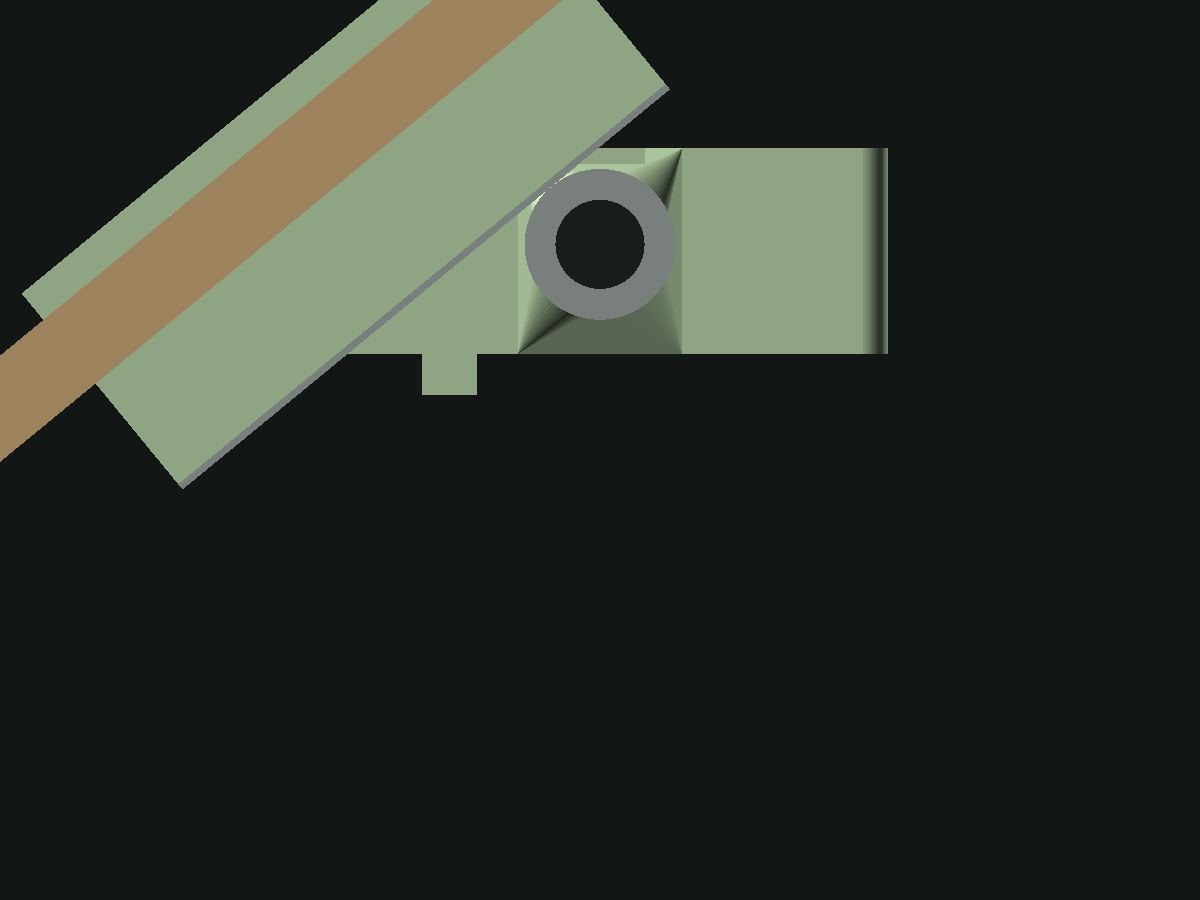
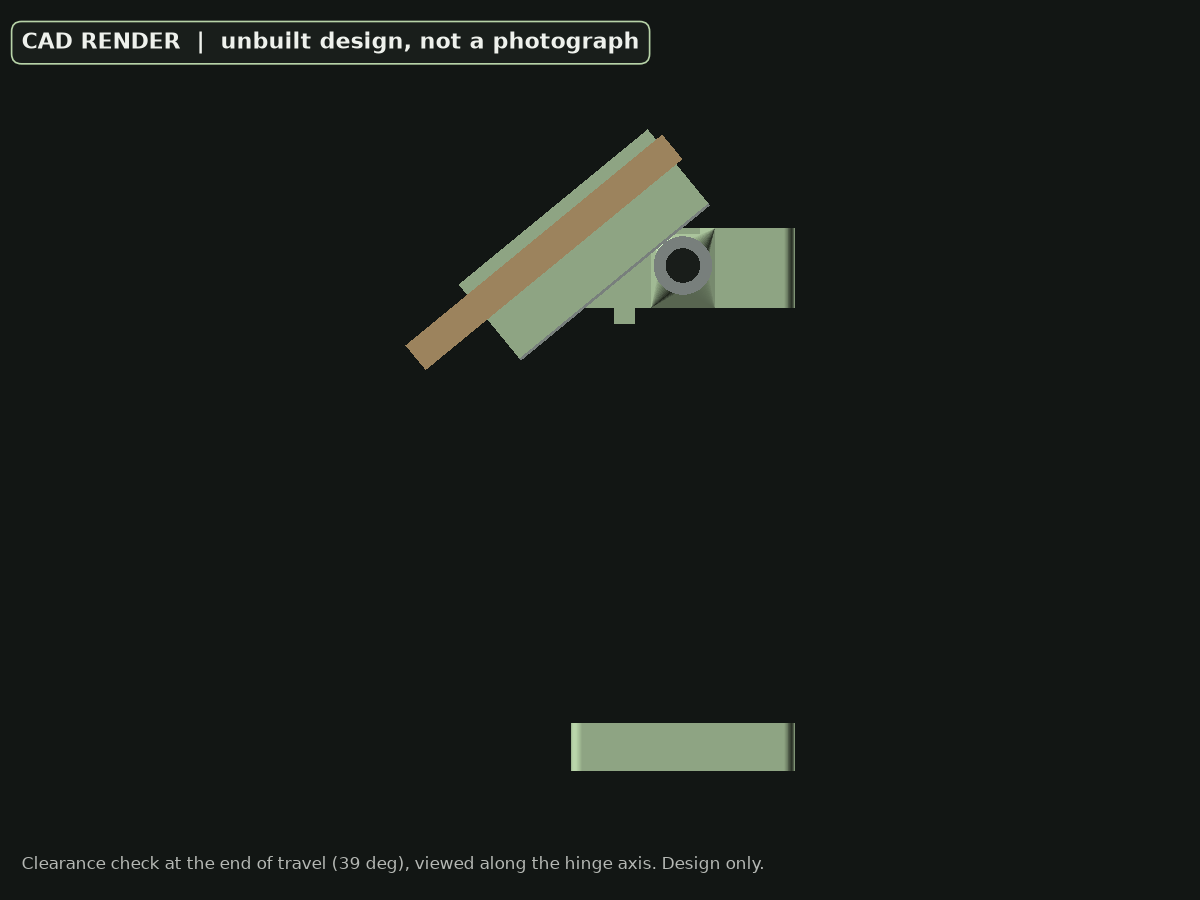
Label every CAD render as a render of an unbuilt design
finish_renders.py burns a 'CAD RENDER | unbuilt design, not a photograph'
badge and a one-line caption into each OpenSCAD render so none can be taken
for a photo of a prototype; the contact check is re-framed.

Changed region(s): [[0.0, 0.0, 0.74, 0.56], [0.4625, 0.7778, 0.6783, 0.8711], [0.0308, 0.9333, 0.6167, 0.9644]]

diff --git a/cad/finish_renders.py b/cad/finish_renders.py
@@ -1,29 +1,65 @@
-"""Swap OpenSCAD's render background for the figures' surface colour and copy
-the renders into figures/ (hero image and the in-use view)."""
+"""Post-process the OpenSCAD renders for figures/.
+
+* Swaps OpenSCAD's render background for the figures' surface colour.
+* Burns a label into every render: these are renders of a design that has not
+  been built, and must never be mistaken for photographs of a prototype.
+"""
 
 from pathlib import Path
 
-import matplotlib.image as mpimg
-import numpy as np
+import matplotlib
+
+matplotlib.use("Agg")
+import matplotlib.image as mpimg  # noqa: E402
+import matplotlib.pyplot as plt  # noqa: E402
+import numpy as np  # noqa: E402
 
 HERE = Path(__file__).resolve().parent
 OUT = HERE.parent / "figures"
-SRC_BG = np.array([0x1D, 0x1F, 0x21]) / 255.0  # "Tomorrow Night" background
+SRC_BG = np.array([0x1D, 0x1F, 0x21]) / 255.0  # OpenSCAD "Tomorrow Night" background
 DST_BG = np.array([0x12, 0x16, 0x14]) / 255.0  # #121614
+LABEL = "CAD RENDER  |  unbuilt design, not a photograph"
 
 
-def recolour(src: Path, dst: Path) -> None:
+def finish(src: Path, dst: Path, sub: str) -> None:
     img = mpimg.imread(src)[..., :3].astype(float)
     d = np.abs(img - SRC_BG).max(axis=-1)
-    # Exact background -> new colour; near-background (anti-aliased edges) blended.
-    w = np.clip(1.0 - d / 0.06, 0.0, 1.0)[..., None]
-    out = img * (1 - w) + (img - SRC_BG + DST_BG) * w
-    mpimg.imsave(dst, np.clip(out, 0, 1))
+    w = np.clip(1.0 - d / 0.06, 0.0, 1.0)[..., None]  # blend anti-aliased edges too
+    img = np.clip(img * (1 - w) + (img - SRC_BG + DST_BG) * w, 0, 1)
+    h, wd = img.shape[:2]
+    dpi = 100
+    fig = plt.figure(figsize=(wd / dpi, h / dpi), dpi=dpi)
+    ax = fig.add_axes((0, 0, 1, 1))
+    ax.imshow(img, interpolation="none")
+    ax.set_axis_off()
+    size = max(12, wd / 75)
+    box = {
+        "boxstyle": "round,pad=0.45",
+        "facecolor": "#191e1b",
+        "edgecolor": "#b7d3a8",
+        "linewidth": 1.2,
+    }
+    fig.text(0.018, 0.965, LABEL, color="#eef1ec", fontsize=size, fontweight="bold",
+             va="top", ha="left", bbox=box)
+    sub_box = {"boxstyle": "round,pad=0.35", "facecolor": "#121614", "edgecolor": "none",
+               "alpha": 0.85}
+    fig.text(0.018, 0.03, sub, color="#b5b8b4", fontsize=size * 0.75, va="bottom", ha="left",
+             bbox=sub_box)
+    fig.savefig(dst, dpi=dpi, facecolor="#121614")
+    plt.close(fig)
     print("wrote", dst)
 
 
-for name, target in (("hero_raw.png", "hero_render.png"), ("in_use_raw.png", "cad_in_use.png"),
-                     ("contact_raw.png", "cad_contact_39deg.png")):
-    p = HERE / "build" / name
+JOBS = (
+    ("hero_raw.png", "hero_render.png",
+     "OpenSCAD model, board angle 18 deg, camera omitted. Design only: not built, not sky-tested."),
+    ("in_use_raw.png", "cad_in_use.png",
+     "OpenSCAD model with stand-in camera and ball head (grey blocks). Design only: not built."),
+    ("contact_raw.png", "cad_contact_39deg.png",
+     "Clearance check at the end of travel (39 deg), viewed along the hinge axis. Design only."),
+)
+
+for raw, target, sub in JOBS:
+    p = HERE / "build" / raw
     if p.is_file():
-        recolour(p, OUT / target)
+        finish(p, OUT / target, sub)
